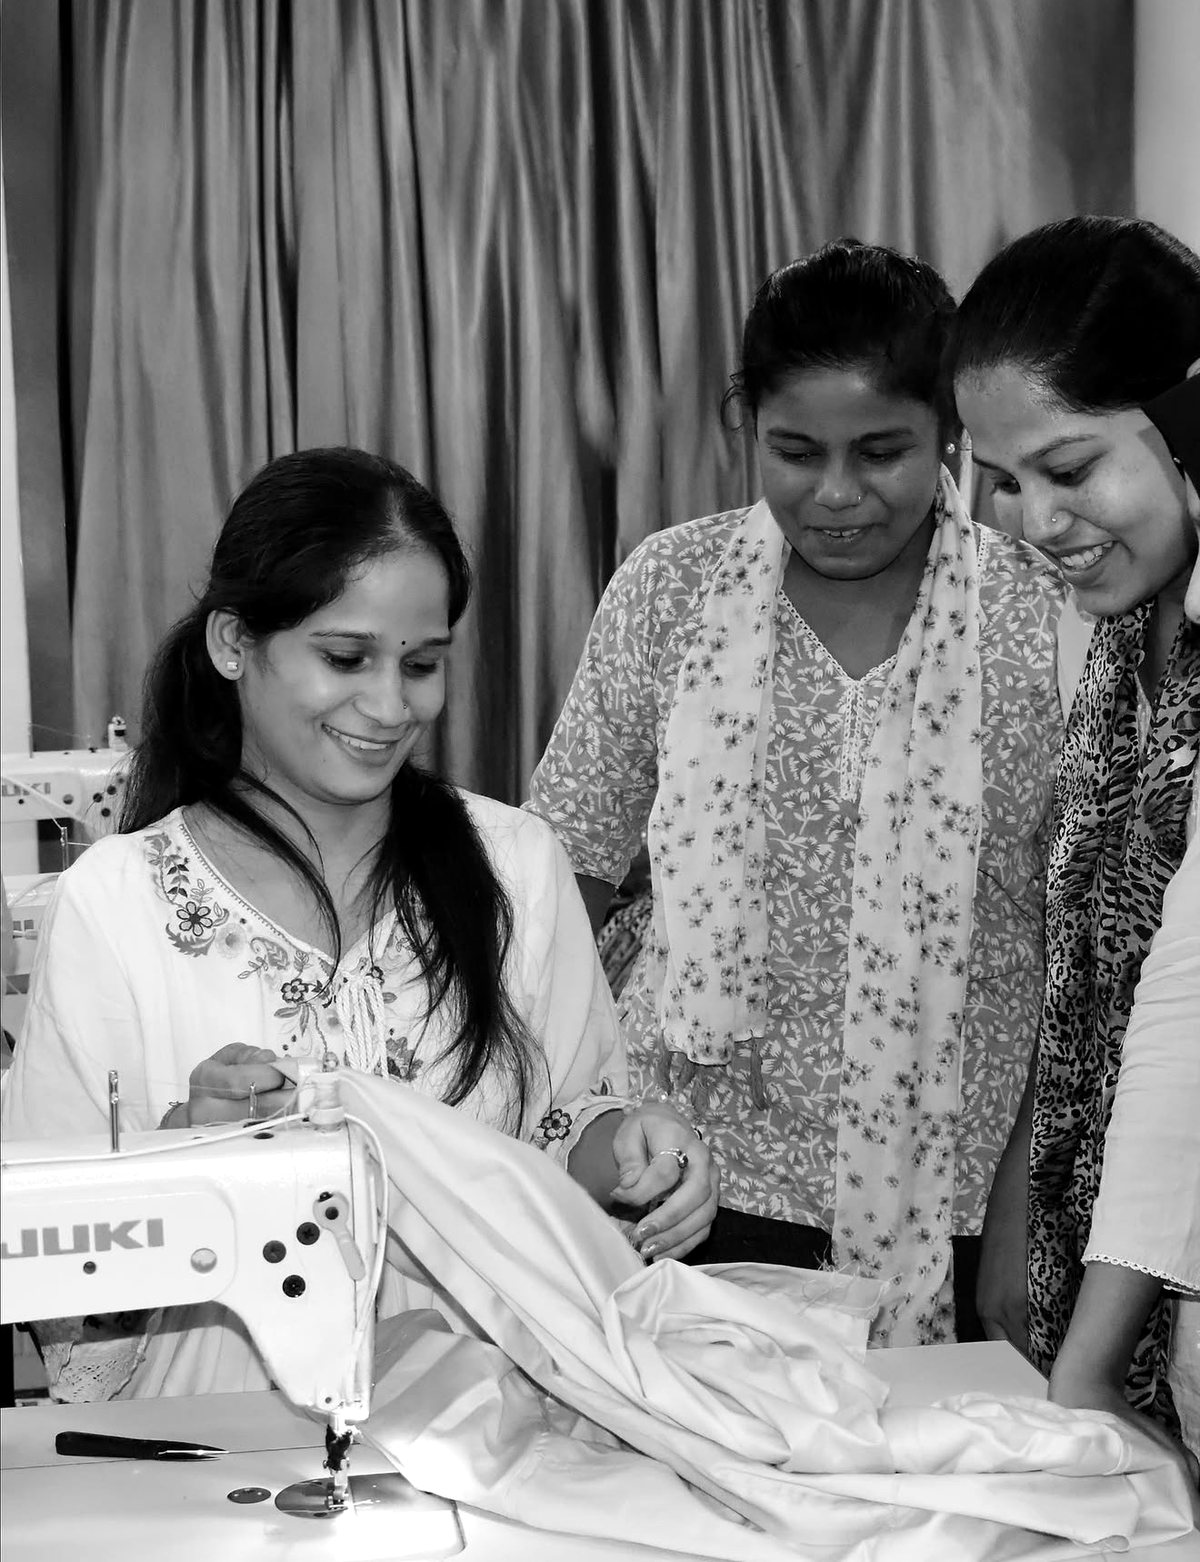
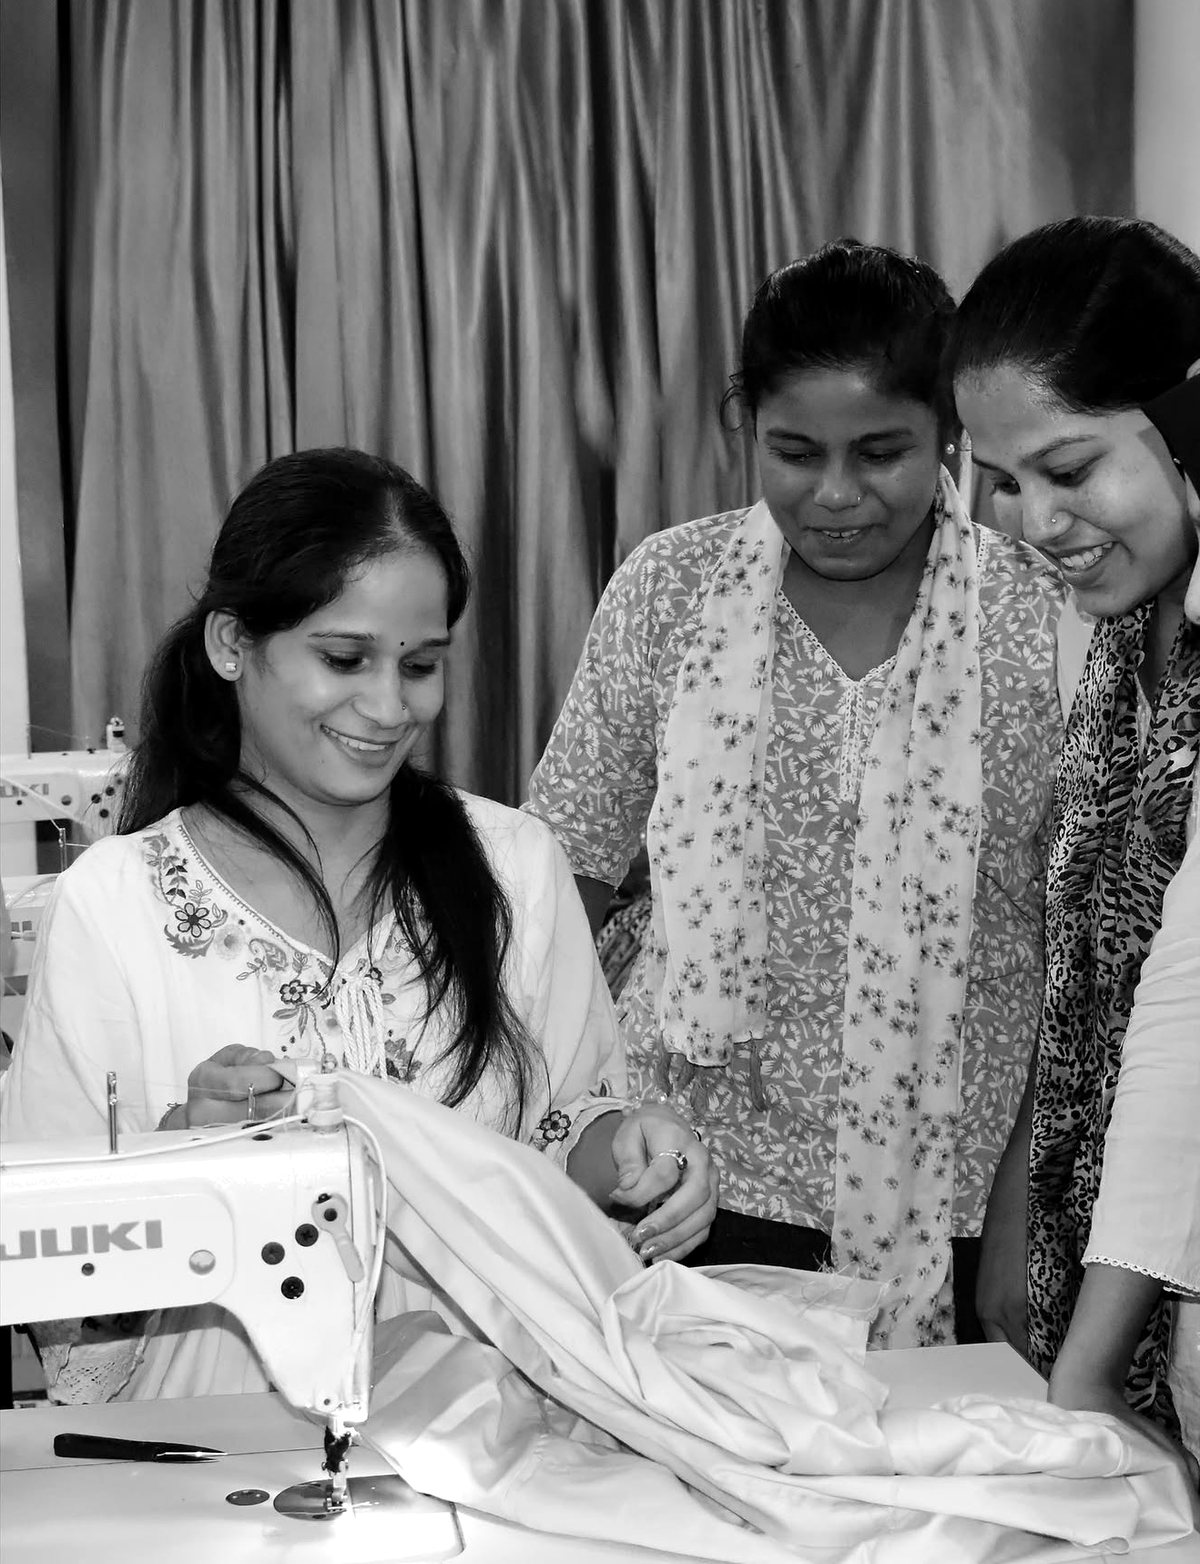
Crop a mid-tone edge band from fac-team, and broaden the band detector
The earlier detector only caught dark bands (mean < 70), so it missed a 1px
strip on the left of fac-team at tone 94. Confirmed as an artifact before
cropping: column 0 has std 24.4 and caps at 128, while content columns run
std ~60 and reach 255, with a 69-point jump at the boundary.

The detector now flags any uniform edge strip with a sharp boundary, whatever
its tone, rather than dark ones only. Re-run across all 35 site images: clean.

Also scanned all 19 factory sources, not just the 11 in use, so the same band
cannot reappear if more are added later.

diff --git a/about.html b/about.html
@@ -129,7 +129,7 @@
 </section>
 
 <section class="wrap">
-  <div data-rise><picture><source srcset="assets/img/fac-team.webp" type="image/webp"><img src="assets/img/fac-team.jpg" alt="The team at the Women Fiber to Fashion unit" width="1200" height="1562" sizes="100vw" loading="lazy" decoding="async"></picture></div>
+  <div data-rise><picture><source srcset="assets/img/fac-team.webp" type="image/webp"><img src="assets/img/fac-team.jpg" alt="The team at the Women Fiber to Fashion unit" width="1200" height="1564" sizes="100vw" loading="lazy" decoding="async"></picture></div>
 </section>
 
 <section class="section section--tint">
